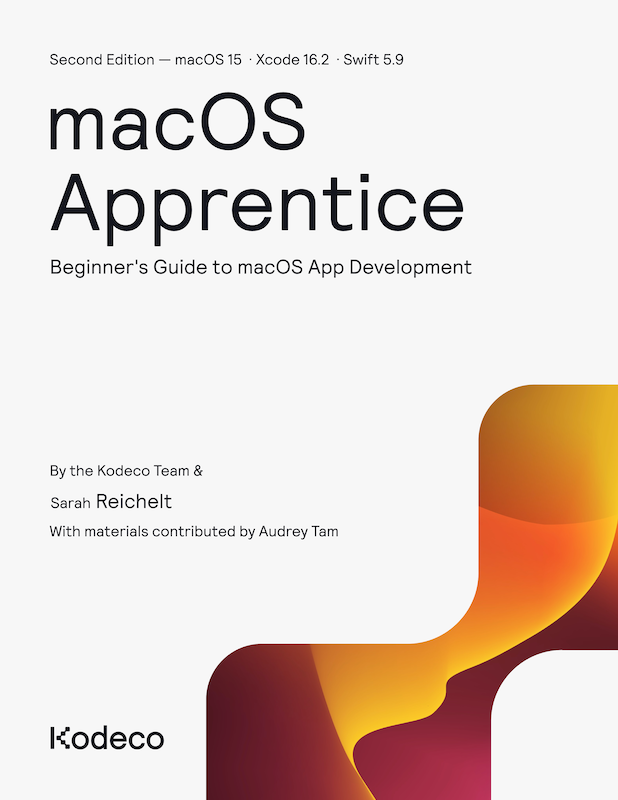
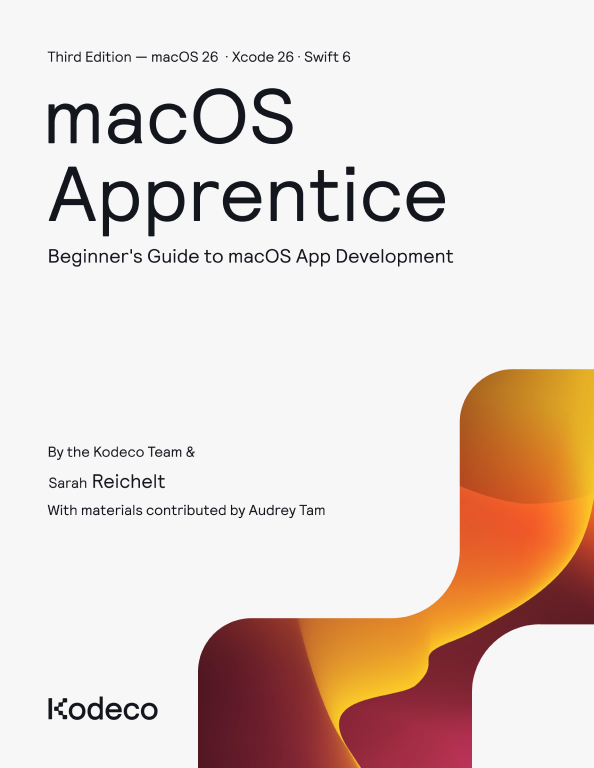
macOS Apprentice update post

diff --git a/src/post/2026/macos-apprentice-update-3.md b/src/post/2026/macos-apprentice-update-3.md
@@ -1,0 +1,83 @@
+---
+title: 'macOS Apprentice: 3rd Edition'
+date: 2026-05-13 11:18:04
+layout: layouts/post.njk
+draft: false
+categories: ['macOS', 'Swift', 'SwiftUI', 'AppKit', 'Book']
+description: 'The third edition of macOS Apprentice has been released!'
+---
+
+The third edition of [macOS Apprentice][1] has been released!
+
+If you're a beginner or near-beginner who wants to start learning Swift, SwiftUI and AppKit for building Mac apps, then this is the book for you.
+
+This edition has been updated for Swift 6, macOS 26 and Xcode 26. It now includes details on using the new Icon Generator as well as major changes in the chapter that deals with embedding an AppKit view in a SwiftUI app. All the code and screenshots have been updated to reflect changes in Xcode, Swift, SwiftUI and macOS.
+
+<!--more-->
+
+![Book Cover][i1]
+
+macOS Apprentice is a series of multi-chapter tutorials where you'll learn about developing native macOS apps in Swift, using both SwiftUI — Apple's newest user interface technology — and AppKit — the venerable UI framework. Along the way, you'll learn several ways to execute Swift code and you'll build two fully featured apps from scratch.
+
+If you're new to macOS and Swift, or to programming in general, learning how to write an app can seem incredibly overwhelming.
+
+That's why you need a guide that:
+
+- Shows you how to write an app step-by-step.
+- Uses tons of illustrations and screenshots to make everything clear.
+- Guides you in a fun and easy-going manner.
+
+You'll start at the very beginning. The first section assumes you have little to no knowledge of programming in Swift. It walks you through installing Xcode and then teaches you the basics of the Swift programming language. Along the way, you'll explore several different ways to run Swift code, taking advantage of the fact that you're developing natively on macOS.
+
+macOS Apprentice doesn't cover every single feature of macOS; it focuses on the absolutely essential ones. Instead of just covering a list of features, macOS Apprentice does something much more important: It explains how all the building blocks fit together and what is involved in building real apps. You're not going to create quick example programs that demonstrate how to accomplish a single feature. Instead, you'll develop complete, fully-formed apps, while exploring many of the complexities and joys of programming macOS.
+
+### Contents
+
+The book consists of four sections:
+
+**Section 1**: Install Xcode and learn the basics of programming in Swift. Experiment with several different ways to execute Swift code on your Mac.
+
+**Section 2**: Use SwiftUI to develop a word-guessing game called Snowman. Learn about data flow in SwiftUI, managing multiple windows, using charts and adding macOS-specific features such as toolbars and menus.
+
+**Section 3**: There are still a number of tasks where AppKit works better than SwiftUI. In this section, build an AppKit app to browse movie data from IMDb, the online movie database.
+
+**Section 4**: Add AppKit to your SwiftUI app and add SwiftUI to your AppKit app in order to add some finishing touches to both of the apps from the previous sections.
+
+You can read more details of the book contents in the [Introduction][4].
+
+If you are a more experienced iOS developer who wants to branch out into macOS development, then my previous book - [macOS Apps Step by step][6] - might be a better fit, although I think you could still learn a lot of Mac app tips and tricks from this one.
+
+### Where Can You Find the Resources?
+
+You can read the book online at [kodeco.com][1] as part of a Kodeco subscription. The introduction and the first chapter are free to read.
+
+All the code and extra materials for the book can be downloaded or cloned from [GitHub][2].
+
+For support, to ask questions or to report any errors, please go to the [forum][7].
+
+### Thanks to...
+
+This book was made possible by an awesome team. There were a lot of people involved, but I want to give special thanks to:
+
+- [Richard Critz][10], the wonderful editor who had the unenviable task of fixing my grammar.
+- [Audrey Tam][11] and [Ehab Amer][12] were the amazing tech editors who had to make sure that it all worked. Audrey also contributed the first chapter on installing and setting up Xcode.
+
+The whole team at [Kodeco][5] was great, so a huge thanks to them all. I hope they enjoyed working on the book as much as I did! It's wonderful to have such a supportive group working to make my content as good as it can be.
+
+### Feedback
+
+I would love to hear from anyone who read the book, loved it, hated it, found an error or just wanted to say hello.
+
+You can contact me directly using any of the contact links at the bottom of this page or through the [Contact][8] page.
+
+[1]: https://www.kodeco.com/books/macos-apprentice/
+[2]: https://github.com/kodecocodes/maca-materials/tree/editions/3.0
+[4]: https://www.kodeco.com/books/macos-apprentice/v3.0/chapters/v-introduction
+[5]: https://www.kodeco.com/
+[6]: /books/macos_apps_step_by_step/
+[7]: https://forums.kodeco.com/c/books/macos-apprentice/107
+[8]: /contact/
+[10]: https://www.kodeco.com/u/rcritz
+[11]: https://www.kodeco.com/u/audrey
+[12]: https://www.kodeco.com/u/ehabamer
+[i1]: /images/books/maca_cover.png
